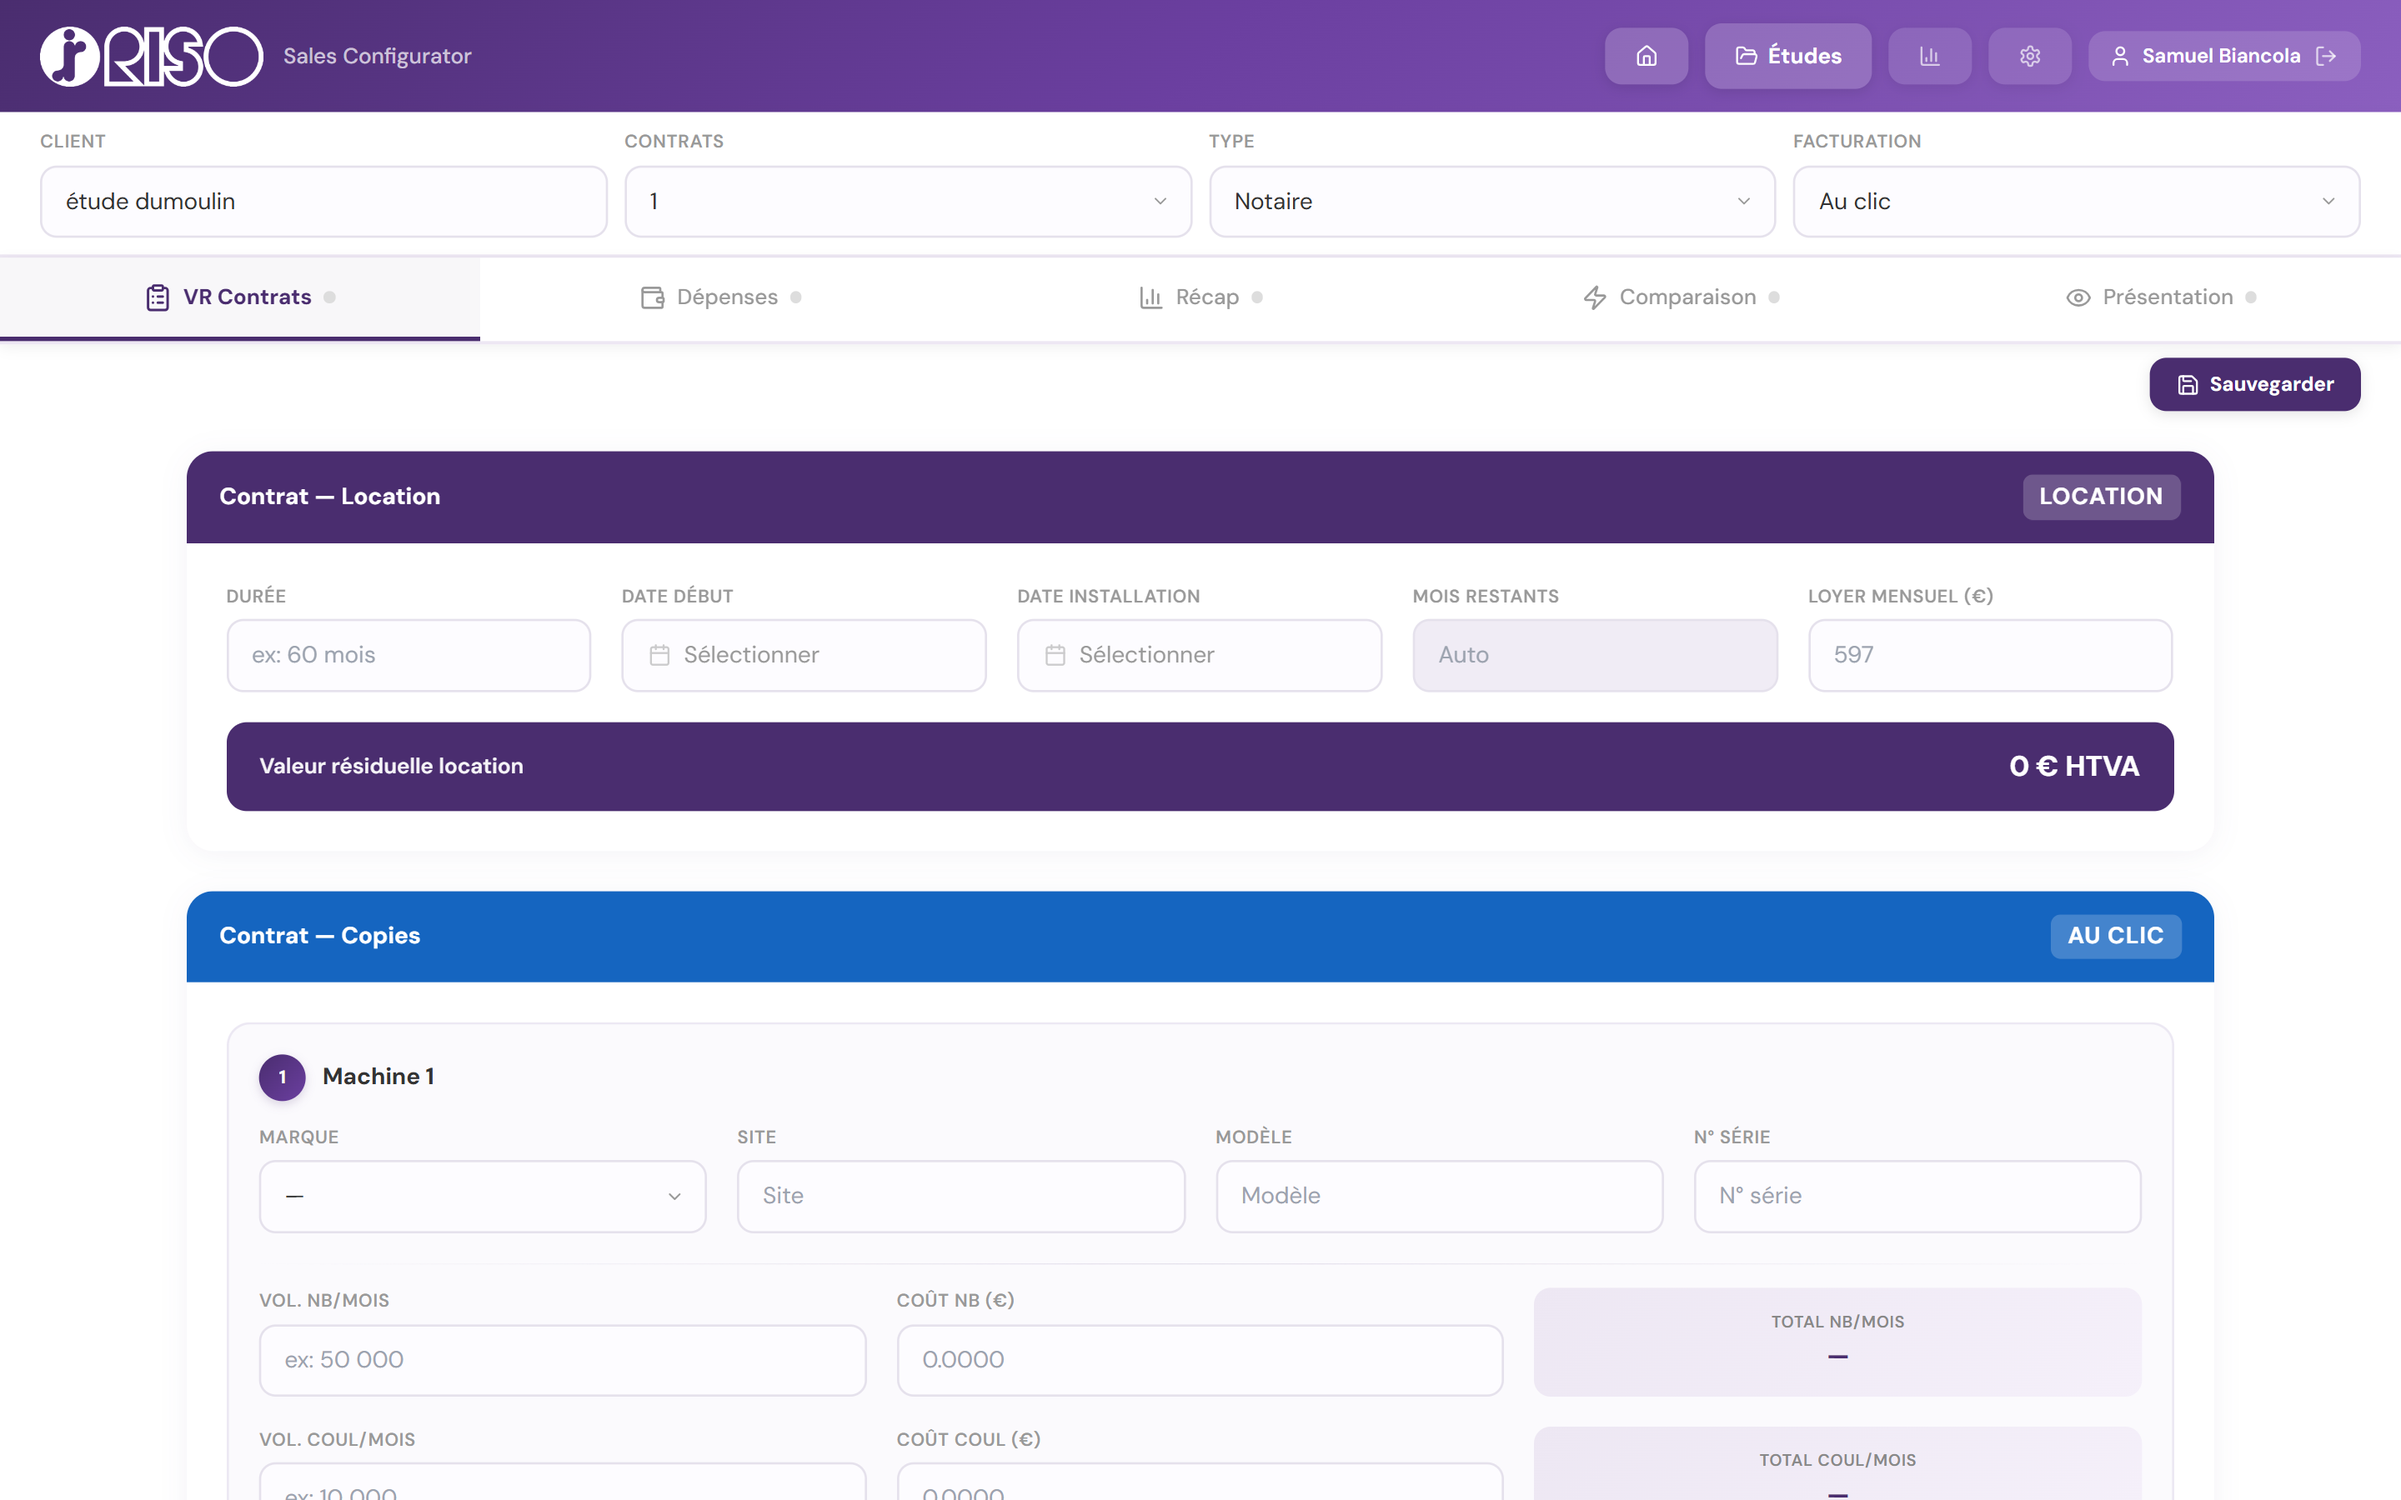
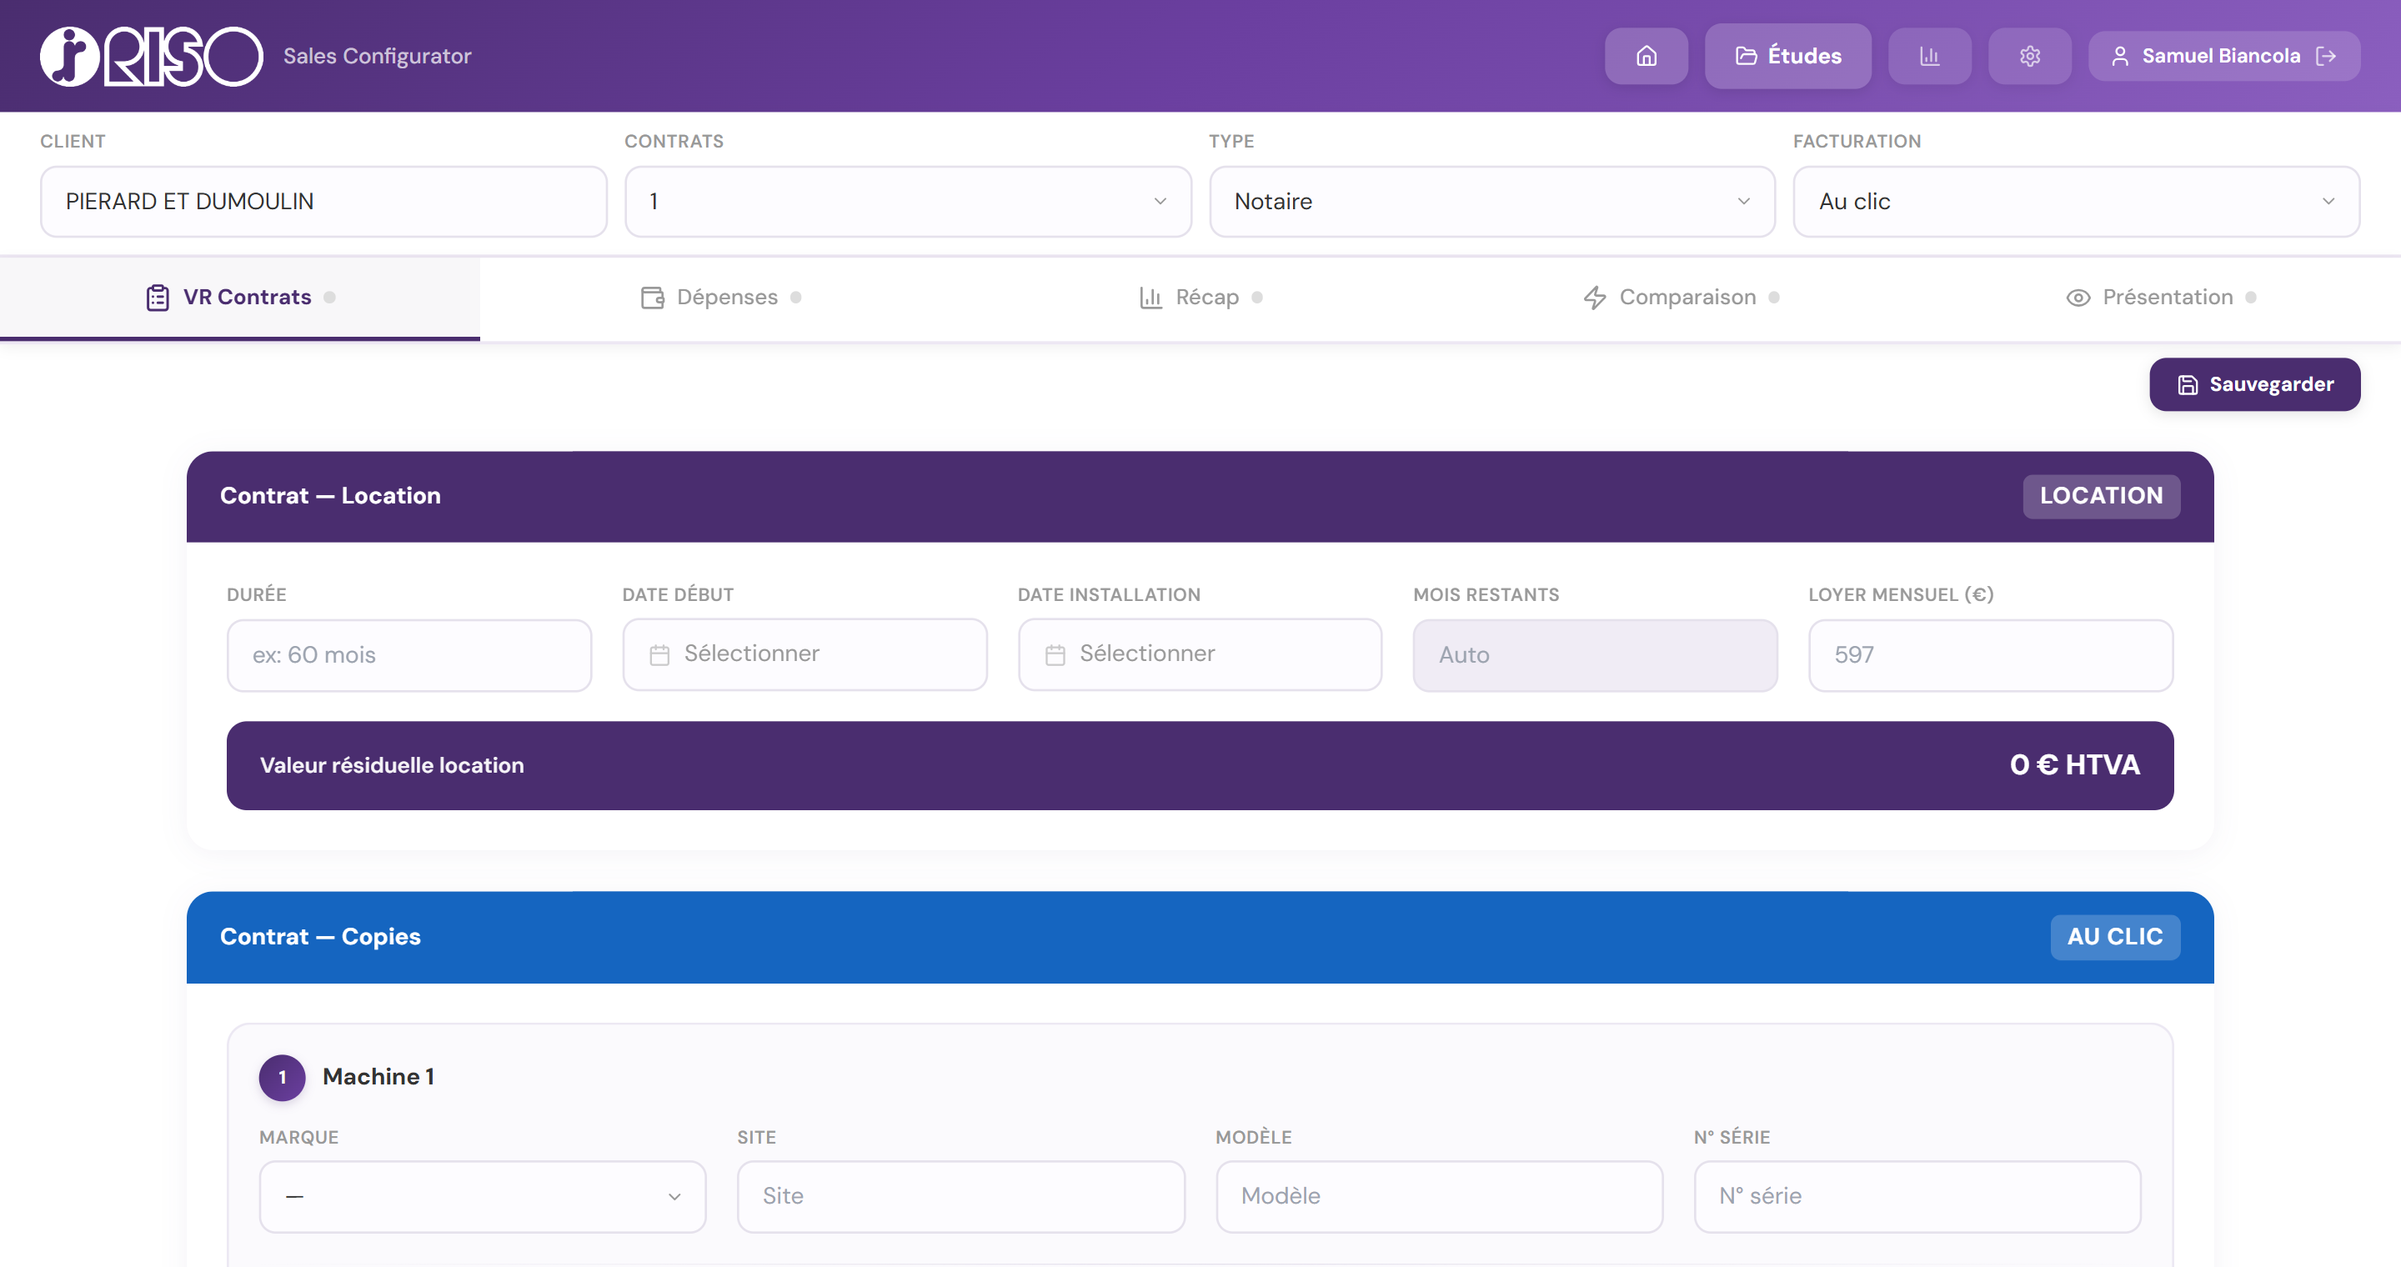
feat: update screenshots 2880x1520 + fine-tune screen area position

diff --git a/components/sections/Realisations.tsx b/components/sections/Realisations.tsx
@@ -59,7 +59,7 @@ function MacBookCarousel({ images }: { images: string[] }) {
           top: "9%",
           left: "7%",
           right: "7%",
-          bottom: "20%",
+          bottom: "21.5%",
           zIndex: 1,
           overflow: "hidden",
           backgroundColor: "#000",
